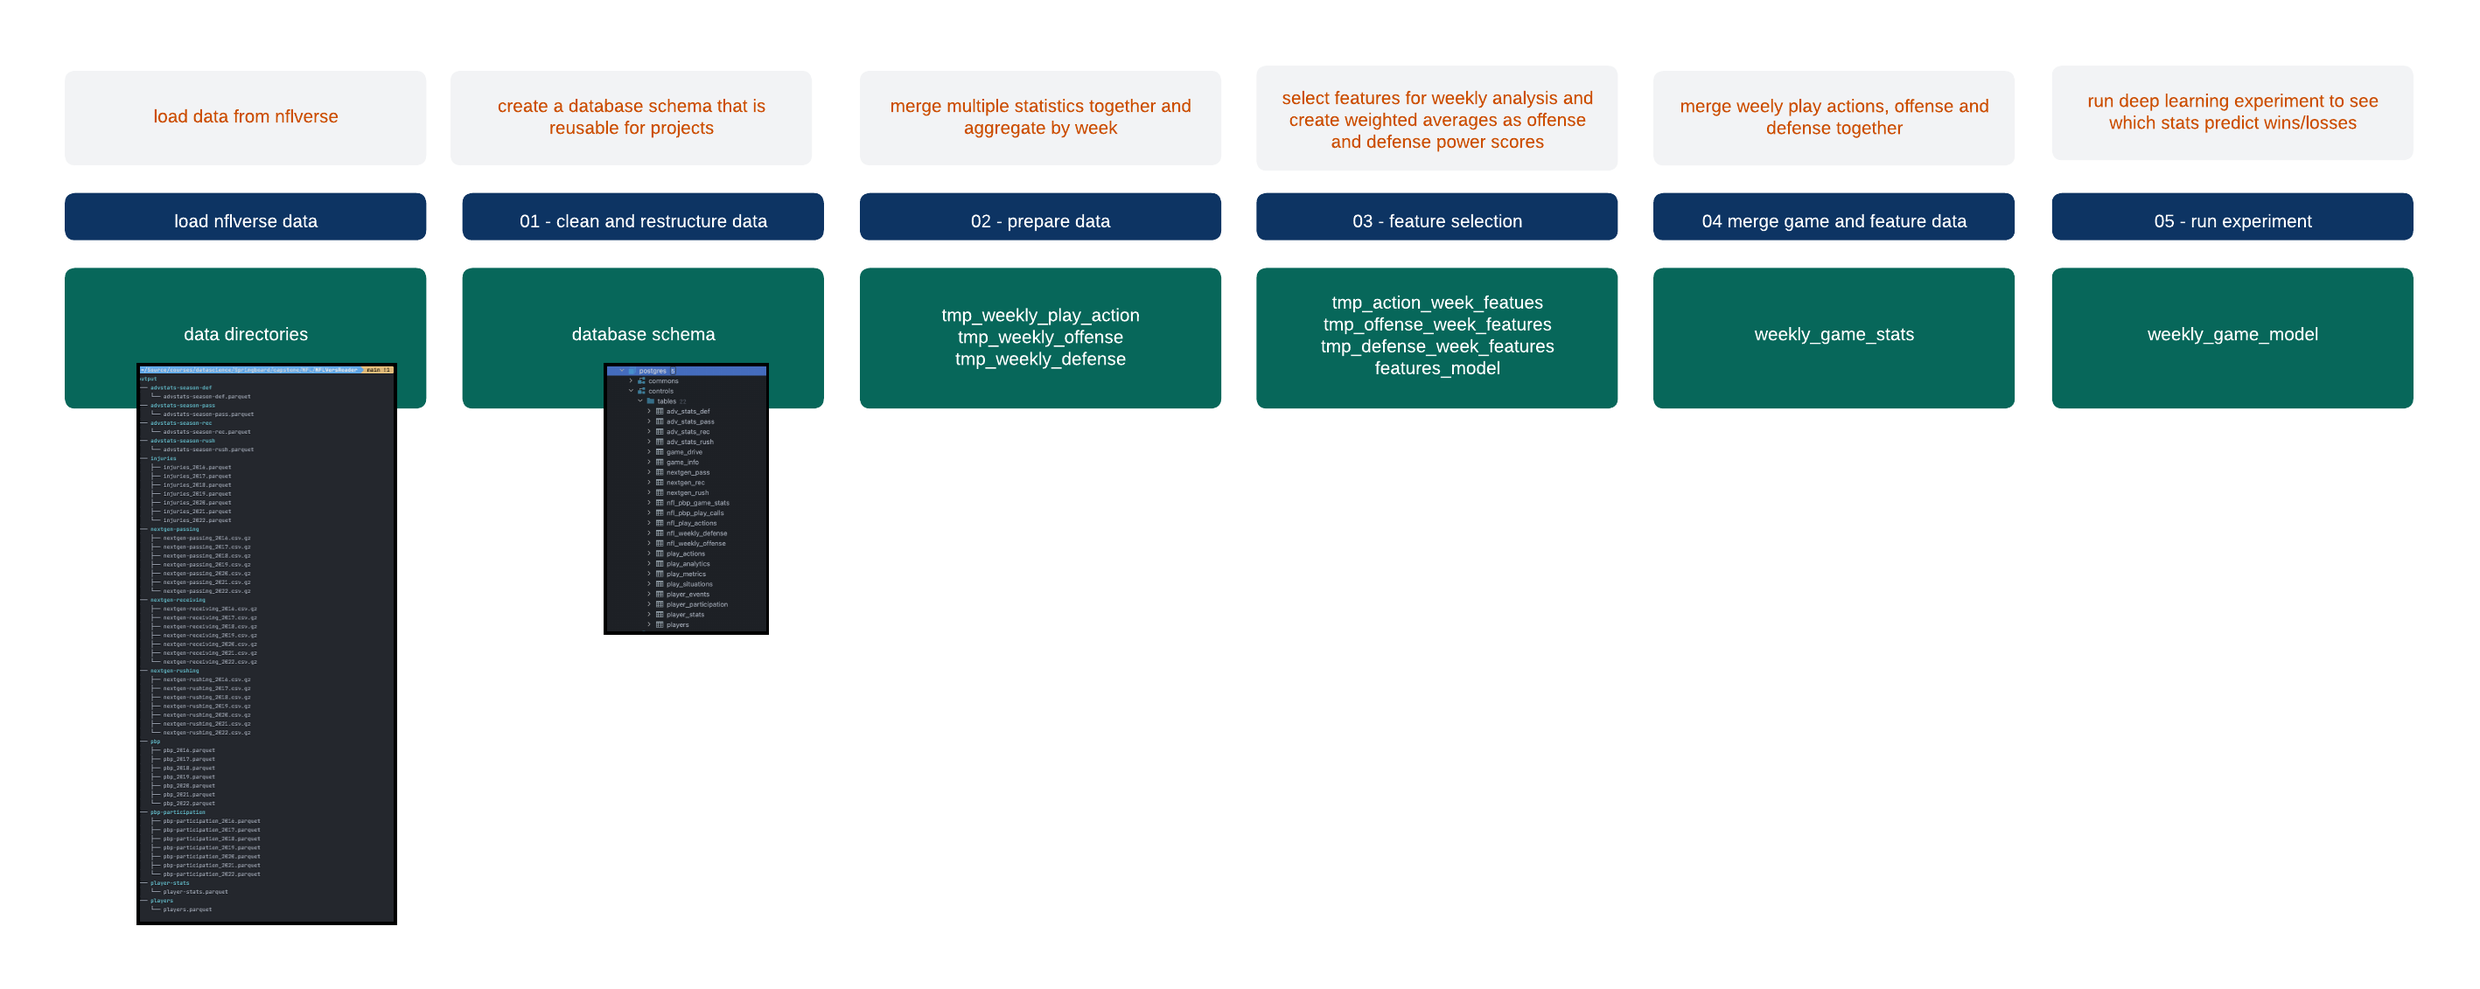
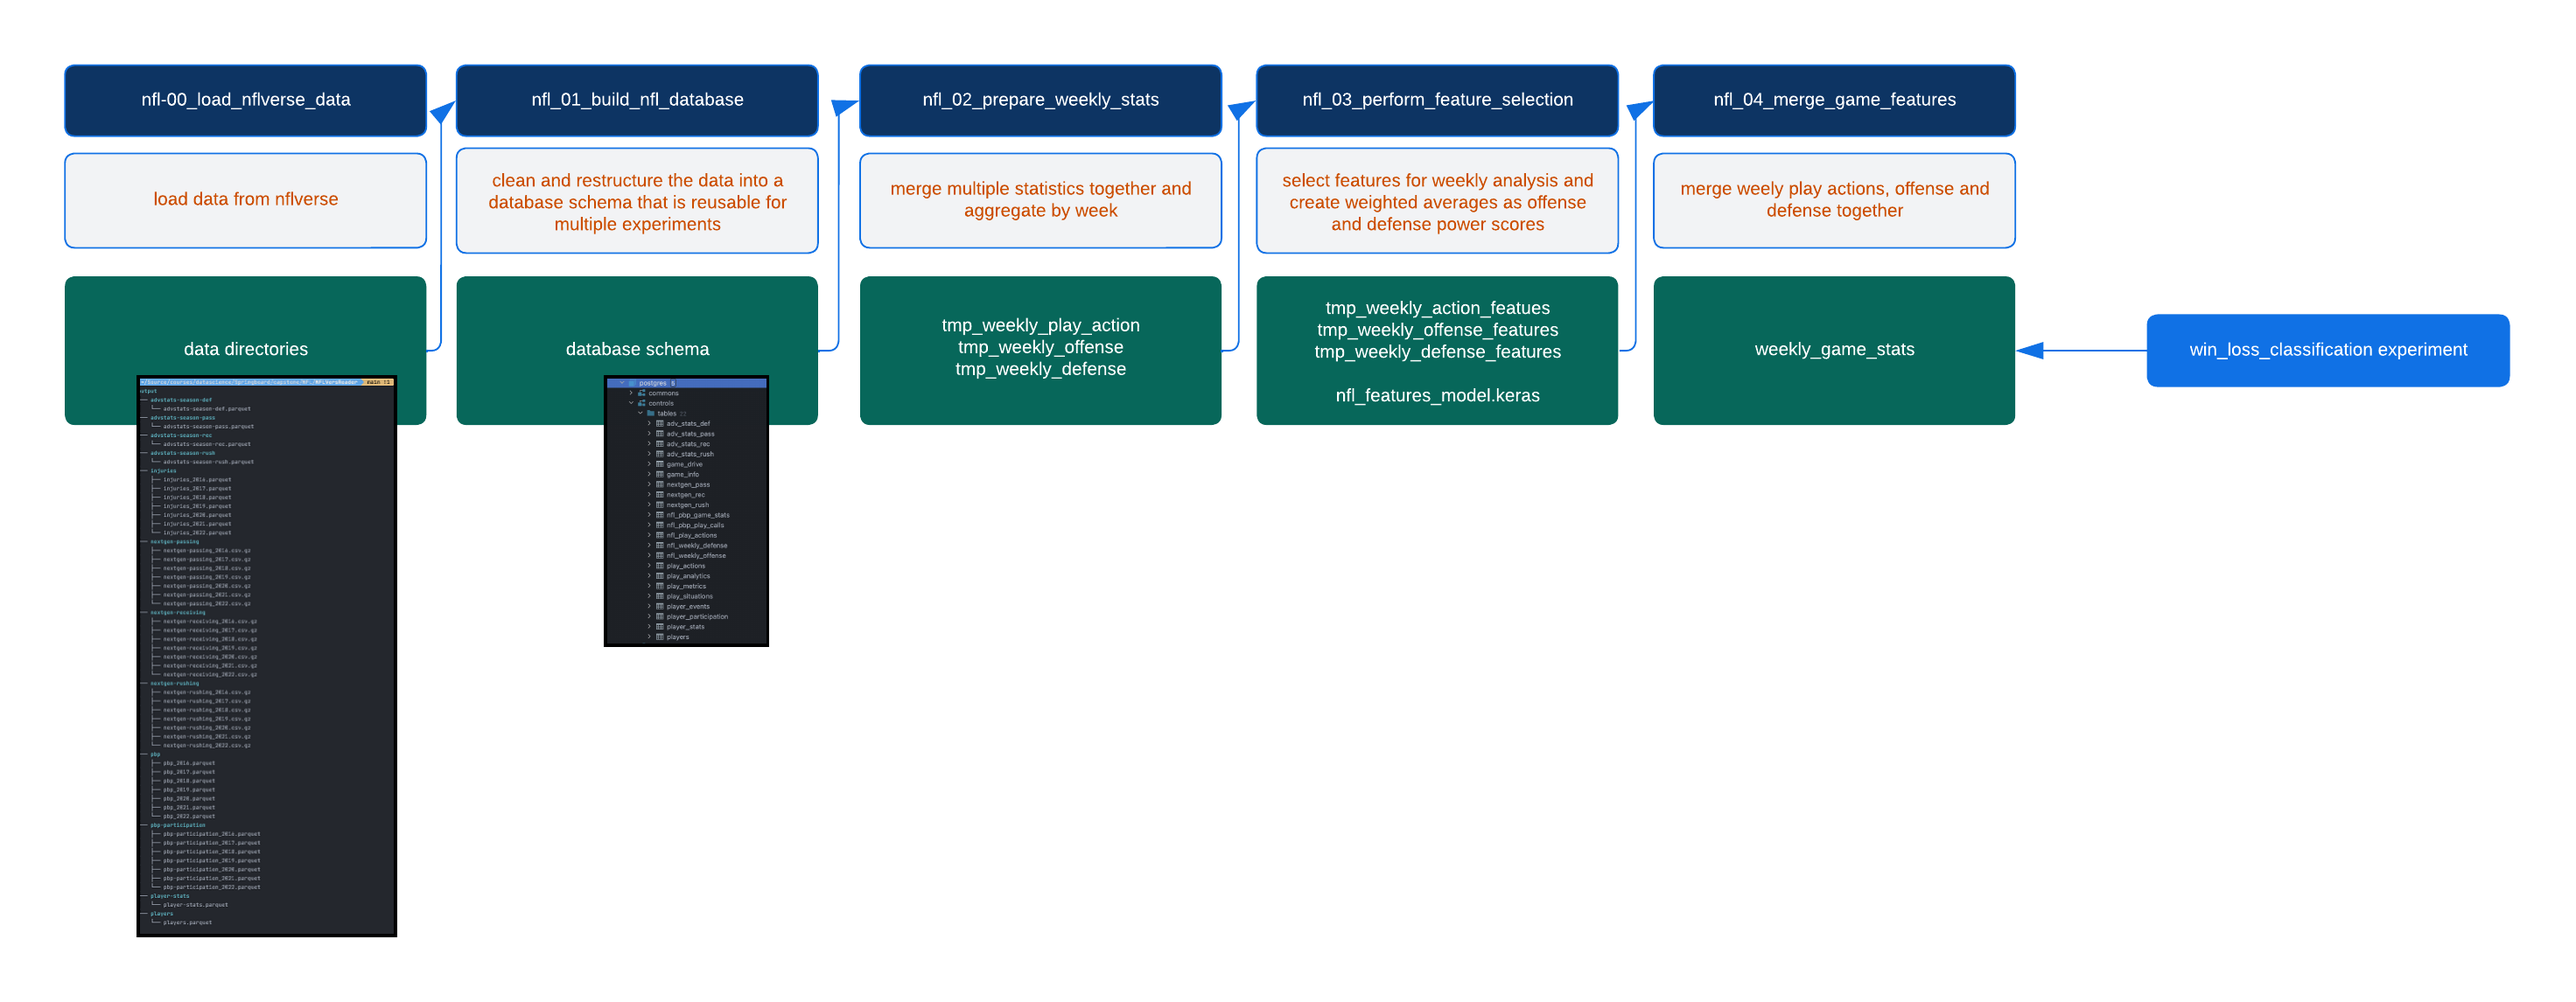
1st e2e documentation

Changed region(s): [[0.0, 0.0619, 0.9933, 0.9284], [0.8381, 0.0928, 0.9623, 0.1547]]

diff --git a/doc/nfl_project_docs/main.md b/doc/nfl_project_docs/main.md
@@ -4,13 +4,35 @@
     <h3 style="color: white;">NFL Machine Learning Proof of Concept</h3>
 </div>
 
-# Table of Contents
+# Project documentation
 
 - [Project](project.md)
 - [Setup](setup.md)
 - [Workflow](workflow.md)
 - [Summary](summary.md)
 
+
+# Table of contents
+- [Introduction](#introduction)
+- [The nflverse data](#the-nflverse-data)
+- [ETL](#etl)
+- [Reading](#reading)
+- [Database creation](#database-creation)
+  - [play by play](#play-by-play)
+    - [play_actions](#play_actions)
+    - [player_events](#player_events)
+    - [player_participation](#player_participation)
+  - [Feature selection](#feature-selection)
+    - [create weekly offense and defense stats](#create-weekly-offense-and-defense-stats)
+    - [use sklearn and xgboost to perform feature selection](#use-sklearn-and-xgboost-to-perform-feature-selection)
+    - [merge the new offense and defense features with the core play-by-play data](#merge-the-new-offense-and-defense-features-with-the-core-play-by-play-data)
+    - [aggregate the weekly stats to the game level](#aggregate-the-weekly-stats-to-the-game-level)
+    - [load and merge the play_action with the offense and defense datasets](#load-and-merge-the-play_action-with-the-offense-and-defense-datasets)
+    - [aggregate the weekly stats to the game level](#aggregate-the-weekly-stats-to-the-game-level-1)
+- 
+
+
+# Introduction
 In this write-up I'm going to share my journey to use machine learning to analyse NFL games.   I know that's a bit vague, but I'll explain. This project is more about exploration than anything else. I am fascinated with AI and machine learning, and although I'm not interested in betting on games, I am interested in the application of machine learning to real-life challenges - such as NFL sports - which is another guilty pleasure for me personally.  
 
 I'm going to cover the following:
@@ -52,34 +74,43 @@ The data tht I decided to use for this initial projects was:
 
 
 
-# ETL
+# ETL workflows
 
-- configuration
-- alerts
-- logging
-- streaming
+## Stubs and shortcuts
+- configuration - I'm just using one very rudimentary configuration python configuration file: [config.py](../../src/config.py)
+- alerts - incidents are all sent to subroutines that don't do anythin but log to the console
+- logging - I'm just using the python logging library to log to the console
+- streaming - I'm not using any streaming or messaging services
 
-Job focus - the idea is that downloading the files is something that should happen autonomously as an ETL job.  
+## ETL jobs
+Job focus - the idea is that downloading, imputing, and validating the nflverse files is something that should happen autonomously as an ETL job as opposed to a Jupyter notebook.  The Jupyter notebooks are meant to be a demo of the ETL job, but the ETL job is meant to run autonomously.  The ETL job is orchestrated by the nfl_main.py script, which is also meant to run autonomously, but for demo purposes we can manually run the ETL and feature selection jobs from the notebooks.
 
-<img src="../../images/nfl.png" width="900" height="500" />
+## The workflow
+There are five overall steps to the ETL job:
+-[x] download the data: `read_nflverse_datasets()` - this is the main job that downloads the data from nflverse
+- [x] create the database: `create_nfl_database()` - this job creates the database and tables
+- [x] prepare the weekly stats `prepare_team_week_dataset()` - this job merges the data into a single dataset
+- [x] perform feature selection `perform_team_week_feature_selection()` - this job performs feature selection on the data
+- [x] merge the features `merge_team_week_features()` - this job merges the features with the core play-by-play data
 
-There are two steps to the ETL job:
+<img src="../../images/nfl.png" width="1000" height="400" />
 
+These steps slot into two major jobs:
+
+The first is getting the data from nflverse into local 'data-at-rest'.  This is a two step process:
 1. download the data: `read_nflverse_datasets()` - this is the main job that downloads the data from nflverse
 2. create the database: `create_nfl_database()` - this job creates the database and tables
 
-Next, we can prepare the data for experiment 2.  For that we need to aggregate the data to the game level.  We'll do this in a few steps:
+Once we have the data in an NFL database, we can query and prepare the data for experiments as outlined in the code block below.  We do this in three steps:
+1. prepare the weekly stats `prepare_team_week_dataset()` - this job merges the data into a single dataset
+2. perform feature selection `perform_team_week_feature_selection()` - this job performs feature selection on the data
+3. merge the features `merge_team_week_features()` - this job merges the features with the core play-by-play data
 
-3. prepare the weekly stats `prepare_team_week_dataset()` - this job merges the data into a single dataset
-4. perform feature selection `perform_team_week_feature_selection()` - this job performs feature selection on the data
-5. merge the features `merge_team_week_features()` - this job merges the features with the core play-by-play data
+Although these run autonomously, for demo purposes we can also manually run them from:
+- notebook [nfl_load_nflverse_data_demo.ipynb](notebooks/nfl_load_nflverse_data_demo.ipynb) runs each step manually end-to-end.
+- notebook [nfl_perform_feature_selection_demo.ipynb](notebooks/nfl_load_nflverse_feature_selection_demo.ipynb) re-runs just the feature selection model for additional demo and charts.
 
-The jobs are meant to run autonomously, but for demo purposes we can manually run the ETL and feature selection jobs from:
-- notebook [ETL demo notebook](notebooks/nfl_load_nflverse_data_demo.ipynb) runs each step manually end-to-end.
-- notebook [Feature selection notebook](notebooks/nfl_load_nflverse_feature_selection_demo.ipynb) re-runs just the feature selection model for additional demo and charts.
-
-The entire job is orchestrated by the nfl_main.py script, which is also meant to run autonomously, but for demo purposes we can manually run the ETL and feature selection jobs from the notebooks/nfl_load_nflverse_data_demo.ipynb notebook.
-
+The autonomous job is orchestrated in the nfl_main.py script:
 ```python
 
 def ingest_nflverse_data():
@@ -107,15 +138,14 @@ if __name__ == '__main__':
     prepare_team_week_data()
 ```
 
-# Reading 
+## Reading the nflverse data 
 
-[nfl_00_load_nflverse_data](https://github.com/cjlcoursework/nflverse_project/blob/c6ebaa24db6d7f3b7a3f5a755822307b2be3b23e/src/nfl_00_load_nflverse_data.py)
+Notebook: [nfl_00_load_nflverse_data](https://github.com/cjlcoursework/nflverse_project/blob/c6ebaa24db6d7f3b7a3f5a755822307b2be3b23e/src/nfl_00_load_nflverse_data.py)
 
 There's nothing fancy here.  The goal is to get the data from nflverse to my location wihtout any processing or risk that something goes wrong.  If something does go wrong at this stage the only thing we need to troubleshoot is the download itself - not any parsing or transformations.  I played with asynchronous downloads, but given the data size it was not worth the added complexity.  The data is not that big and the download is not that slow.  I just used the requests library to download the data.  I did incorporate a Thread pool executor  - but honestly I think that was more for fun than practicality.
 
 
-# Database creation
-
+## Database creation
 - the nflverse tables are monthithic for good reason I think - it would be difficult to manage a lot of little normalized datasets
 - the data is wide and sparse
 - the data is not normalized
@@ -123,11 +153,14 @@ There's nothing fancy here.  The goal is to get the data from nflverse to my loc
 
 The goal is not necessarily to normalize everything.  Instead, we'll separate data into separate dimensions that we can enrich as needed.
 
-The one exception is that we restructure the pbp table more extensively.  The table is a wealth of information that contains every play for every week in every season.  It's delivered as a wide sparse table with information at different cardinality.  
+The one exception is that we restructure the pbp table more extensively.  The table is a wealth of information that contains every play for every week in every season.  It's delivered as a wide sparse table with information at different cardinality.
 
 for example every single play has redundant information about the season, week, game, etc.  This is fine for many cases and I won't try to over-normalize that.  In other cases there's alot of sprse data:  for example there can be a column like field_goal_result - that will be null for everyplay that was not a field_goal_attempt.   The goal is not necessarily to normalize everything.  Instead, we'll separate data into separate dimensions that we can enrich as needed.
 
-Here is the way I dimensioned the nflverse data
+### Database design
+  The schema is documented here:  [Database schema](nfl_database_schema.sql)
+
+Overall, here is the way I dimensioned the nflverse data
 
 <table>
   <tr>
@@ -188,78 +221,91 @@ Here is the way I dimensioned the nflverse data
   </tr>
 </table>
 
+### Significant conversions
 
-## play by play
+### <font color=teal>Play by play (pbp)</font>
 The pbp table is a wealth of information that contains every play for every week in every season.  It's delivered as a wide sparse table with information at different cardinality.
 
 for example every single play has redundant information about the season, week, game, etc.  This is fine for many cases and I won't try to over-normalize that.  
 
 In other cases there's alot of sparse data: for example: a column like field_goal_result - that will be null for everyplay that was not a field_goal_attempt.   Instead, we'll separate data into separate dimensions that we can enrich as needed.
 
-### play_actions
+### <font color=teal>Play actions</font>
+The play_actions table is a subset of the pbp table.  It contains the play-level facts for a given game, such as drive, down, yards to go and perform minor enrichment like adding yards_to_goal by parsing yard line data.  The play_actions table is the core table for the play-by-play data.  It is the table that we will use for feature selection and experimentation.
 
 
 
-### player_events
-within a single row there are several player events. For example:
+### <font color=teal>Player events</font>
+within a single play-by-play row there are several player events. A few example columns are:
 
-- **qb_hit_player_id** 00001 might have sacked the QB
-- **fumble_player_id 00002** fumbled the ball
+| play\_id | qb\_hit\_1\_player\_id | sack\_player\_id | fumble\_recovery\_1\_player\_id |
+| :--- | :--- | :--- | :--- |
+| 3141 | 00-0029585 | 00-0032127 | 00-0029604 |
 
-We pull all of these out, merging with players and participation data to create a record like
-{player_id:0002, event=fumble, team=KC, lineup=defense}
-ithin a single row there are several player events. For example:
+---
 
-- qb_hit_player_id 00001 might have sacked the QB
-- fumble_player_id 00002 fumbled the ball
+We pull all of these out, and pivot them into separate rows, and merging with players and participation data to create normalized records like:
 
-We pull all of these out, merging with players and participation data to create a record like
+|player_id|event|team|lineup|position|
+| :--- | :--- | :--- | :--- | :--- |
+|00-0029585|qb\_hit|ARI|defense|DE|
+|00-0032127|sack|ARI|defense|OLB|
+|00-0029604|fumble\_recovery|MIN|defense|QB|
 
-```python
-dict(player_id='0002', event='fumble', team='KC', lineup='defense')
-```
 
 <br>
+We can then join at the play level or aggregate to the game-level.
+
 For example:
+<blockquote>
+  For a single game between the Vikings and the Cardinals, we can aggregate these individual records at the team level. 
 
-For a single game between the Chiefs and the Cardinals, we can aggregate these individual records at the team level and see that there were 6 fumbles, 6 sacks, 6 qb hits, 75 tackles, 0 interceptions and 0 safeties. 
+  ---
+  We want two records for that single game, one from the point of view of the Vikings and one from the point of view of the Cardinals.  This is important because we want to be able to generalize those stats to other situations by team.  We can do that by joining the player_events table to the player_participation table.  The player_participation table contains the player_id, team and lineup for each player in the game.  We can join the two tables on player_id and game_id to get the following results: 
+</blockquote>
 
-Just as important, we want two records for that single game, one from the point of view of the Chiefs and one from the point of view of the Cardinals.  This is important because we want to be able to generalize those stats to other situations by team.  We can do that by joining the player_events table to the player_participation table.  The player_participation table contains the player_id, team and lineup for each player in the game.  We can join the two tables on player_id and game_id to get the following results: 
-
+SQL
 ```sql
 with players as (
-    select distinct game_id,  player_id, team from controls.player_participation
+  select distinct game_id,  player_id, team from controls.player_participation
 ),
-defensive_events as (
-    select pe.season, pe.week, pe.game_id, pp.team, pe.player_id, pe.event, pe.lineup from controls.player_events pe
-        left join players pp on (pp.player_id = pe.player_id and pp.game_id = pe.game_id)
-        order by play_id 
-)
+     defensive_events as (
+       select pe.season, pe.week, pe.game_id, pp.team, pe.player_id, pe.event, pe.lineup from controls.player_events pe
+                                                                                                left join players pp on (pp.player_id = pe.player_id and pp.game_id = pe.game_id)
+       order by play_id
+     )
 SELECT
-    season, week, team, game_id,
-    SUM(CASE WHEN event = 'fumble' THEN 1 else 0 END) AS fumble,
-    SUM(CASE WHEN event = 'safety' THEN 1 else 0 END) AS safety,
-    SUM(CASE WHEN event = 'tackle' THEN 1 else 0 END) AS tackle,
-    SUM(CASE WHEN event = 'qb_hit' THEN 1 else 0  END) AS qb_hit,
-    SUM(CASE WHEN event = 'interception' THEN 1 else 0 END) AS interception,
-    SUM(CASE WHEN event = 'sack' THEN 1 else 0 END) AS sack
-FROM defensive_events where game_id = '2022_01_KC_ARI'
+  season, week, team, game_id,
+  SUM(CASE WHEN event = 'fumble' THEN 1 else 0 END) AS fumble,
+  SUM(CASE WHEN event = 'safety' THEN 1 else 0 END) AS safety,
+  SUM(CASE WHEN event = 'tackle' THEN 1 else 0 END) AS tackle,
+  SUM(CASE WHEN event = 'qb_hit' THEN 1 else 0  END) AS qb_hit,
+  SUM(CASE WHEN event = 'interception' THEN 1 else 0 END) AS interception,
+  SUM(CASE WHEN event = 'sack' THEN 1 else 0 END) AS sack
+FROM defensive_events where game_id = '2021_02_MIN_ARI'
 group by season, week, team, game_id
 order by season desc, team, week;
 ```
-
+Results
 
 | season | week | team | game\_id | fumble | safety | tackle | qb\_hit | interception | sack |
 | :--- | :--- | :--- | :--- | :--- | :--- | :--- | :--- | :--- | :--- |
-| 2022 | 1 | ARI | 2022\_01\_KC\_ARI | 6 | 0 | 75 | 6 | 0 | 0 |
-| 2022 | 1 | KC | 2022\_01\_KC\_ARI | 6 | 0 | 60 | 6 | 0 | 3 |
+| 2021 | 2 | ARI | 2021\_02\_MIN\_ARI | 3 | 0 | 63 | 4 | 0 | 1 |
+| 2021 | 2 | MIN | 2021\_02\_MIN\_ARI | 3 | 0 | 70 | 3 | 2 | 3 |
 
 
 
 
 
+### <font color=teal>Player_participation</font>
 
-### player_participation
+The player participation dataset contains all the player contribution to a given play.  I stores all of the defense players in one array, and the offense players in a second array.  Here's an example of the defense players for a single play:
+
+| season | game\_id | play | defense_players                       | 
+| :--- | :--- |:-----|:--------------------------------------|
+| 2022 | 2022\_01\_BUF\_LA | 1 |   00-0031787, 00-0035352, 00-0037318 |
+
+We can explode the array into separate rows to create our version of the player_participation table.  We can then join this table to the other tables on player_id.  For example, we can get the player information for the defense players in the above example: 
 
 ```sql
 select R.season, R.game_id, R.team, R.player_id, R.lineup,  P.display_name
@@ -270,11 +316,11 @@ from controls.player_participation R
 limit 3
 ```
 
-| season | game\_id | team | player\_id | lineup | display\_name |
-| :--- | :--- | :--- | :--- | :--- | :--- |
-| 2022 | 2022\_01\_BUF\_LA | BUF | 00-0031787 | defense | Jake Kumerow |
-| 2022 | 2022\_01\_BUF\_LA | BUF | 00-0035352 | defense | Tyrel Dodson |
-| 2022 | 2022\_01\_BUF\_LA | BUF | 00-0037318 | defense | Baylon Spector |
+| season | game\_id | play | team | player\_id | lineup | display\_name |
+| :--- | :--- |:-----|:-----| :--- | :--- | :--- |
+| 2022 | 2022\_01\_BUF\_LA | 1    | BUF  | 00-0031787 | defense | Jake Kumerow |
+| 2022 | 2022\_01\_BUF\_LA | 1    | BUF  | 00-0035352 | defense | Tyrel Dodson |
+| 2022 | 2022\_01\_BUF\_LA | 1    | BUF  | 00-0037318 | defense | Baylon Spector |
 
 
 
